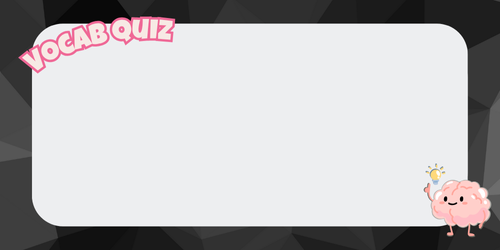
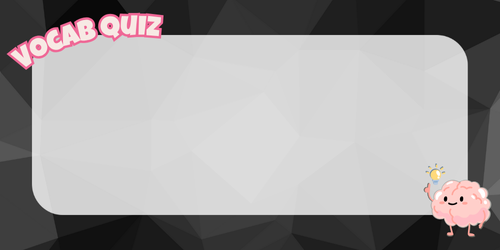
feat: flip card animation and readme

diff --git a/lib/main.dart b/lib/main.dart
@@ -24,89 +24,3 @@ class MyApp extends StatelessWidget {
     );
   }
 }
-
-class MyHomePage extends StatefulWidget {
-  const MyHomePage({super.key, required this.title});
-
-  // This widget is the home page of your application. It is stateful, meaning
-  // that it has a State object (defined below) that contains fields that affect
-  // how it looks.
-
-  // This class is the configuration for the state. It holds the values (in this
-  // case the title) provided by the parent (in this case the App widget) and
-  // used by the build method of the State. Fields in a Widget subclass are
-  // always marked "final".
-
-  final String title;
-
-  @override
-  State<MyHomePage> createState() => _MyHomePageState();
-}
-
-class _MyHomePageState extends State<MyHomePage> {
-  int _counter = 0;
-
-  void _incrementCounter() {
-    setState(() {
-      // This call to setState tells the Flutter framework that something has
-      // changed in this State, which causes it to rerun the build method below
-      // so that the display can reflect the updated values. If we changed
-      // _counter without calling setState(), then the build method would not be
-      // called again, and so nothing would appear to happen.
-      _counter++;
-    });
-  }
-
-  @override
-  Widget build(BuildContext context) {
-    // This method is rerun every time setState is called, for instance as done
-    // by the _incrementCounter method above.
-    //
-    // The Flutter framework has been optimized to make rerunning build methods
-    // fast, so that you can just rebuild anything that needs updating rather
-    // than having to individually change instances of widgets.
-    return Scaffold(
-      appBar: AppBar(
-        // TRY THIS: Try changing the color here to a specific color (to
-        // Colors.amber, perhaps?) and trigger a hot reload to see the AppBar
-        // change color while the other colors stay the same.
-        backgroundColor: Theme.of(context).colorScheme.inversePrimary,
-        // Here we take the value from the MyHomePage object that was created by
-        // the App.build method, and use it to set our appbar title.
-        title: Text(widget.title),
-      ),
-      body: Center(
-        // Center is a layout widget. It takes a single child and positions it
-        // in the middle of the parent.
-        child: Column(
-          // Column is also a layout widget. It takes a list of children and
-          // arranges them vertically. By default, it sizes itself to fit its
-          // children horizontally, and tries to be as tall as its parent.
-          //
-          // Column has various properties to control how it sizes itself and
-          // how it positions its children. Here we use mainAxisAlignment to
-          // center the children vertically; the main axis here is the vertical
-          // axis because Columns are vertical (the cross axis would be
-          // horizontal).
-          //
-          // TRY THIS: Invoke "debug painting" (choose the "Toggle Debug Paint"
-          // action in the IDE, or press "p" in the console), to see the
-          // wireframe for each widget.
-          mainAxisAlignment: MainAxisAlignment.center,
-          children: <Widget>[
-            const Text('You have pushed the button this many times:'),
-            Text(
-              '$_counter',
-              style: Theme.of(context).textTheme.headlineMedium,
-            ),
-          ],
-        ),
-      ),
-      floatingActionButton: FloatingActionButton(
-        onPressed: _incrementCounter,
-        tooltip: 'Increment',
-        child: const Icon(Icons.add),
-      ), // This trailing comma makes auto-formatting nicer for build methods.
-    );
-  }
-}

diff --git a/lib/views/components/flipcard_widget.dart b/lib/views/components/flipcard_widget.dart
@@ -1,0 +1,120 @@
+import 'package:flutter/material.dart';
+
+class FlipcardWidget extends StatefulWidget {
+  const FlipcardWidget({super.key, required this.front, required this.back});
+
+  final String front;
+  final String back;
+
+  @override
+  State<FlipcardWidget> createState() => _FlipcardWidgetState();
+}
+
+class _FlipcardWidgetState extends State<FlipcardWidget>
+    with SingleTickerProviderStateMixin {
+  late AnimationController _controller;
+  late Animation<double> _animation;
+  bool _isFront = true;
+
+  @override
+  void initState() {
+    super.initState();
+    _controller = AnimationController(
+      duration: const Duration(milliseconds: 600),
+      vsync: this,
+    );
+    // _animation = Tween<double>(begin: 0, end: 1).animate(_controller);
+    _animation = Tween<double>(
+      begin: 0,
+      end: 1,
+    ).animate(CurvedAnimation(parent: _controller, curve: Curves.easeInOut));
+  }
+
+  void _toggleCard() {
+    if (_isFront) {
+      _controller.forward();
+    } else {
+      _controller.reverse();
+    }
+    setState(() {
+      _isFront = !_isFront;
+    });
+  }
+
+  @override
+  void dispose() {
+    _controller.dispose();
+    super.dispose();
+  }
+
+  @override
+  Widget build(BuildContext context) {
+    return Center(
+      child: GestureDetector(
+        onTap: _toggleCard,
+        child: AnimatedBuilder(
+          animation: _animation,
+          builder: (context, child) {
+            return Transform(
+              transform: Matrix4.rotationY(_animation.value * 3.14159),
+              alignment: Alignment.center,
+              child: _animation.value < 0.5
+                  ? _buildFrontCard()
+                  : Transform.scale(
+                      scaleX: -1,
+                      scaleY: 1,
+                      child: _buildBackCard(),
+                    ),
+            );
+          },
+        ),
+      ),
+    );
+  }
+
+  Widget _buildFrontCard() {
+    return Padding(
+      padding: const EdgeInsets.symmetric(vertical: 5),
+      child: Container(
+        width: double.infinity,
+        height: 100,
+        decoration: BoxDecoration(
+          color: Colors.pinkAccent,
+          borderRadius: BorderRadius.circular(10),
+        ),
+        alignment: Alignment.center,
+        child: Text(
+          widget.front,
+          style: TextStyle(
+            fontSize: 24,
+            fontWeight: FontWeight.bold,
+            color: Colors.white,
+          ),
+        ),
+      ),
+    );
+  }
+
+  Widget _buildBackCard() {
+    return Padding(
+      padding: const EdgeInsets.symmetric(vertical: 5),
+      child: Container(
+        width: double.infinity,
+        height: 100,
+        decoration: BoxDecoration(
+          color: Colors.pink[50],
+          borderRadius: BorderRadius.circular(10),
+        ),
+        alignment: Alignment.center,
+        child: Text(
+          widget.back,
+          style: TextStyle(
+            fontSize: 24,
+            fontWeight: FontWeight.bold,
+            color: Colors.black,
+          ),
+        ),
+      ),
+    );
+  }
+}

diff --git a/lib/views/pages/practice_page.dart b/lib/views/pages/practice_page.dart
@@ -2,6 +2,7 @@ import 'package:flutter/material.dart';
 import 'package:flutter/services.dart';
 import 'package:vocab_quiz/data/classes.dart';
 import 'package:vocab_quiz/data/styles.dart';
+import 'package:vocab_quiz/views/components/flipcard_widget.dart';
 import 'package:vocab_quiz/views/components/hero_widget.dart';
 
 class PracticePage extends StatefulWidget {
@@ -18,9 +19,9 @@ class _PracticePageState extends State<PracticePage> {
   Widget build(BuildContext context) {
     return Scaffold(
       appBar: AppBar(
-        title: Text(widget.title, style: appBarFont),
+        title: Text("Practice", style: appBarFont),
         flexibleSpace: Image.asset(
-          "assets/images/background.png",
+          "assets/images/background1.png",
           fit: BoxFit.cover,
         ),
         systemOverlayStyle: SystemUiOverlayStyle.light,
@@ -38,11 +39,9 @@ class _PracticePageState extends State<PracticePage> {
                 itemCount: widget.vocabList.length,
                 itemBuilder: (context, index) {
                   final item = widget.vocabList[index];
-                  return Card(
-                    color: Color(0xffc7c7c7),
-                    child: Column(
-                      children: [Text(item.word), Text(item.definition)],
-                    ),
+                  return FlipcardWidget(
+                    front: item.word,
+                    back: item.definition,
                   );
                 },
               ),

diff --git a/README.md b/README.md
@@ -1,16 +1,23 @@
-# vocab_quiz
+# Overview
 
-A new Flutter project.
+This mobile app allows users to practice vocabulary by flipping cards that display a word on the front and its definition on the back. Afterward, users can take a vocabulary quiz and view their scores.
 
-## Getting Started
+# Youtube Demonstration
 
-This project is a starting point for a Flutter application.
+[Software Demo Video](http://youtube.link.goes.here)
 
-A few resources to get you started if this is your first Flutter project:
+# Development Environment
 
-- [Lab: Write your first Flutter app](https://docs.flutter.dev/get-started/codelab)
-- [Cookbook: Useful Flutter samples](https://docs.flutter.dev/cookbook)
+- Flutter
+- VS Code
 
-For help getting started with Flutter development, view the
-[online documentation](https://docs.flutter.dev/), which offers tutorials,
-samples, guidance on mobile development, and a full API reference.
+# Useful Websites
+- [How to Install Flutter on a Mac](https://youtu.be/QG9bw4rWqrg?si=5EJkGxGGzUjAGlhA)
+- [The Ultimate Flutter Tutorial for Beginners - 2025 Full Course](https://youtu.be/3kaGC_DrUnw?si=flMW5O9PVXAT15ZL)
+- [Master Flip Card Animations in Flutter](https://youtu.be/OjqWQrqTfWY?si=YtUh36uNFaPZd3wE)
+
+
+# Future Work
+* Item 1
+* Item 2
+* Item 3
